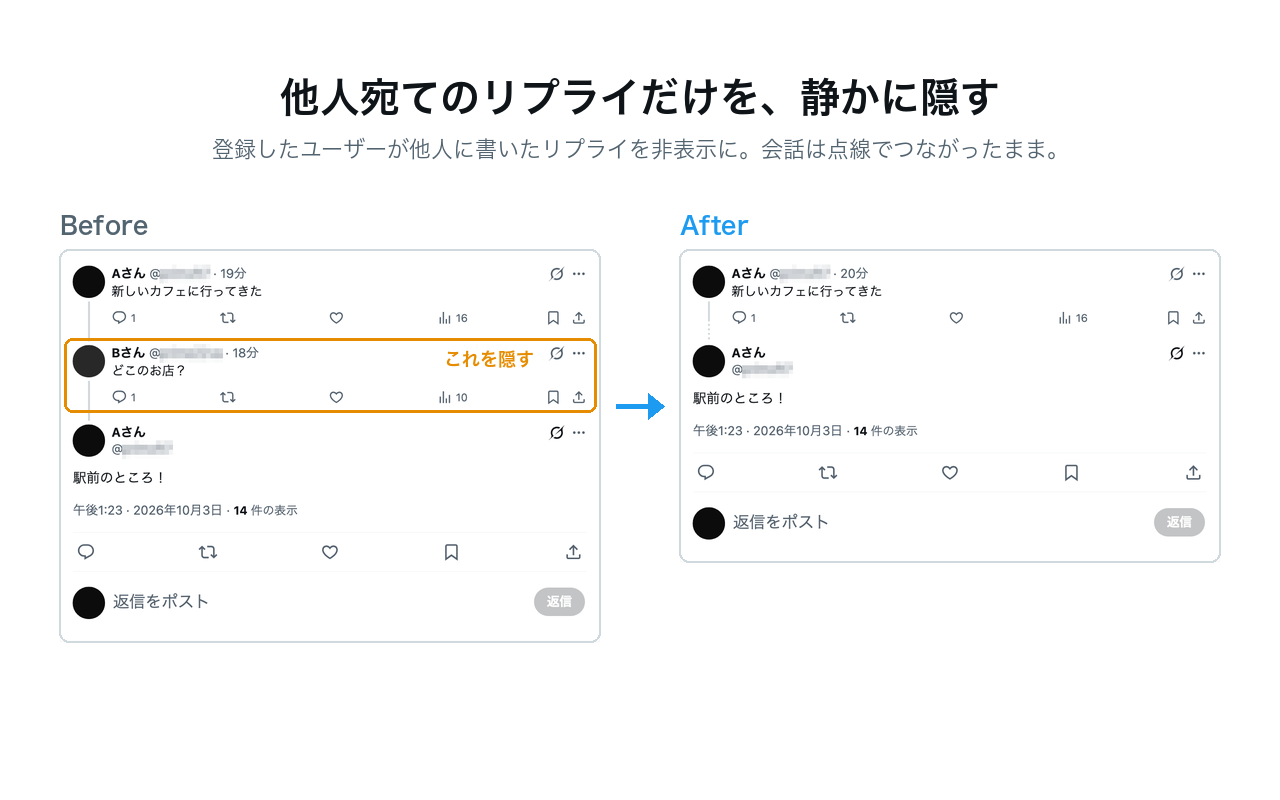
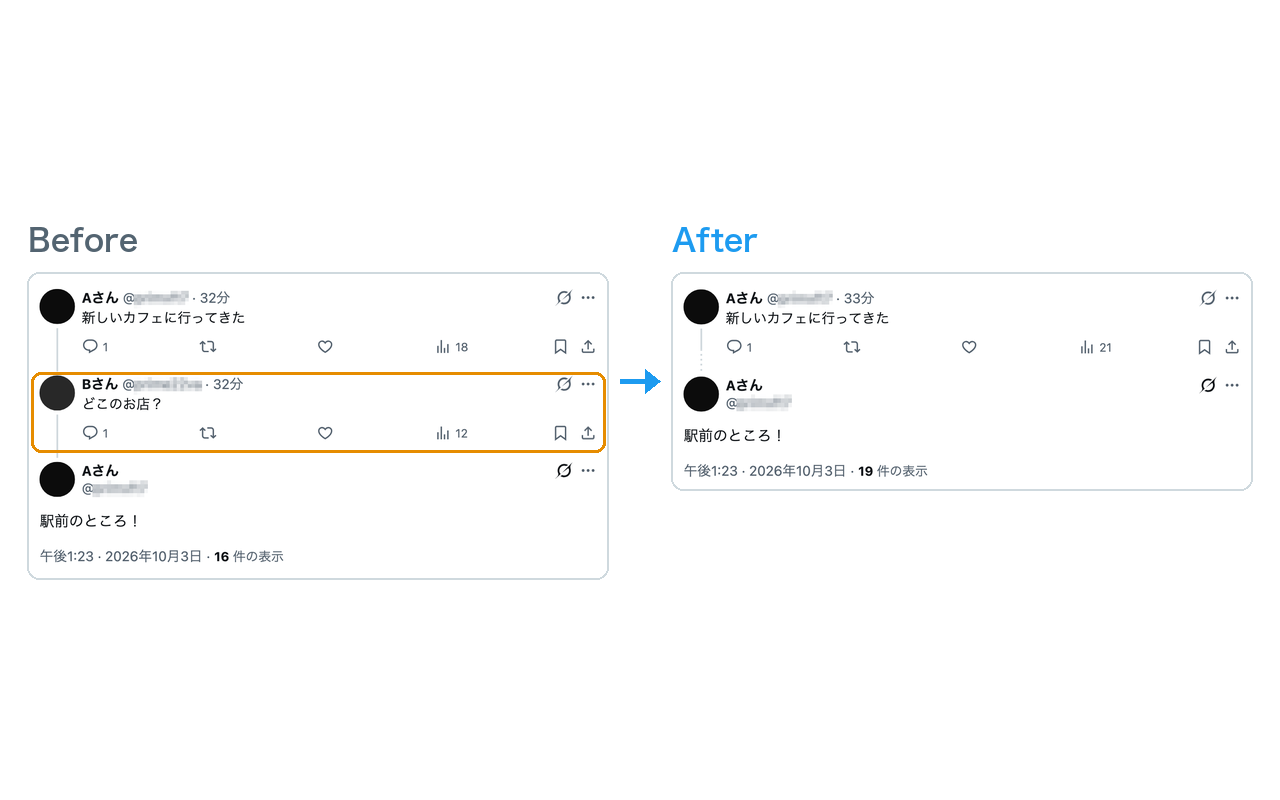
ストア用スクリーンショットを Retina の画面から作り直す
ブラウザ操作ツールの縮小された画像では文字がぼやけていたため、Retina の
解像度で撮った Before / After の画面から作り直した。見出しと説明文、
「これを隠す」のラベルはなくし、比較と隠れる返信を囲む枠だけにした。
compose.py は元画像のパスを引数で受け取り、切り出し範囲とモザイクの
位置を冒頭の定数にまとめた。

diff --git a/store/compose.py b/store/compose.py
@@ -1,29 +1,29 @@
-# ストア用スクリーンショット 1 を作る。
-# x.com の Before / After の画面（Retina のウィンドウキャプチャ）から会話の欄を切り出し、
-# @handle にモザイクをかけて 1280x800 に並べる。
+# ストア用スクリーンショットを作る。
+# x.com の会話部分を Retina で撮った Before / After の画像から、@handle にモザイクをかけて
+# 1280x800 に左右に並べる。
 # 使い方: python3 store/compose.py <before.png> <after.png> store/screenshot-1.png
 #
 # 座標はすべて元画像のピクセル位置。撮り直したら CROP / MOSAIC / HIDDEN_ROW を合わせ直す。
+# 最初の投稿が左右で同じ高さに来るように切り出す。
 import sys
 from PIL import Image, ImageDraw, ImageFont
 
-# 会話の欄（左右の境界線の内側から、返信欄の下の境界線まで）
 CROP = {
-    "before": (797, 75, 1877, 860),
-    "after": (797, 73, 1877, 698),
+    "before": (0, 0, 1306, 688),  # 右端の区切り線を落とす
+    "after": (4, 87, 1310, 575),  # 上の「← ポスト」の見出しと、下の区切り線を落とす
 }
 # @handle の @ より後ろ
 MOSAIC = {
-    "before": [(996, 104, 1098, 142), (996, 263, 1123, 301), (921, 456, 1023, 494)],
-    "after": [(996, 102, 1098, 140), (921, 296, 1023, 330)],
+    "before": [(238, 40, 362, 80), (238, 234, 392, 274), (145, 466, 270, 504)],
+    "after": [(242, 126, 366, 166), (149, 360, 274, 398)],
 }
 # Before で隠れる返信の行（上端と下端の y）
-HIDDEN_ROW = (250, 400)
+HIDDEN_ROW = (222, 402)
 
-PANEL_W = 540
 W, H = 1280, 800
+MARGIN, GAP = 28, 64  # 左右の余白と、パネルの間（矢印を置く）
+LABEL_SPACE = 52
 BOLD = "/System/Library/Fonts/ヒラギノ角ゴシック W6.ttc"
-REGULAR = "/System/Library/Fonts/ヒラギノ角ゴシック W3.ttc"
 
 
 def pixelate(img, box, block=8):
@@ -32,22 +32,23 @@ def pixelate(img, box, block=8):
     img.paste(small.resize(region.size, Image.NEAREST), box)
 
 
-def panel(path, key):
+def panel(path, key, scale):
     img = Image.open(path).convert("RGB")
     for box in MOSAIC[key]:
         pixelate(img, box)
     crop = img.crop(CROP[key])
-    scale = PANEL_W / crop.width
-    return crop.resize((PANEL_W, round(crop.height * scale)), Image.LANCZOS), scale, img.getpixel((CROP[key][0] + 10, CROP[key][3] - 10))
+    return crop.resize((round(crop.width * scale), round(crop.height * scale)), Image.LANCZOS)
 
 
-before, scale, bg = panel(sys.argv[1], "before")
-after, _, _ = panel(sys.argv[2], "after")
+panel_w = (W - MARGIN * 2 - GAP) // 2
+scale = panel_w / (CROP["before"][2] - CROP["before"][0])
+before = panel(sys.argv[1], "before", scale)
+after = panel(sys.argv[2], "after", scale)
 out = sys.argv[3]
 
-# X のテーマ（ライト / ダーク）に合わせて文字と枠線の色を変える
+bg = before.getpixel((before.width - 4, before.height - 4))
+# X のテーマ（ライト / ダーク）に合わせて色を変える
 light = sum(bg) / 3 > 128
-fg = (15, 20, 25) if light else (231, 233, 234)
 muted = (83, 100, 113) if light else (139, 152, 165)
 border = (207, 217, 222) if light else (47, 51, 54)
 amber = (230, 140, 0) if light else (255, 173, 31)
@@ -55,27 +56,25 @@ accent = (29, 155, 240)
 
 canvas = Image.new("RGB", (W, H), bg)
 d = ImageDraw.Draw(canvas)
-d.text((W / 2, 96), "他人宛てのリプライだけを、静かに隠す", font=ImageFont.truetype(BOLD, 40), fill=fg, anchor="mm")
-d.text((W / 2, 148), "登録したユーザーが他人に書いたリプライを非表示に。会話は点線でつながったまま。",
-       font=ImageFont.truetype(REGULAR, 22), fill=muted, anchor="mm")
 
-top = 250
-xl, xr = 60, W - 60 - PANEL_W
-label = ImageFont.truetype(BOLD, 24)
+# 見出しと高いほうのパネル（Before）を合わせた塊を、上下の中央に置く
+top = (H - (LABEL_SPACE + before.height)) // 2 + LABEL_SPACE
+xl = MARGIN
+xr = W - MARGIN - panel_w
+label = ImageFont.truetype(BOLD, 30)
 for x, img, text, color in ((xl, before, "Before", muted), (xr, after, "After", accent)):
-    d.text((x, top - 26), text, font=label, fill=color, anchor="lm")
+    d.text((x, top - 34), text, font=label, fill=color, anchor="lm")
     canvas.paste(img, (x, top))
-    d.rounded_rectangle((x - 1, top - 1, x + img.width, top + img.height), radius=10, outline=border, width=2)
+    d.rounded_rectangle((x - 1, top - 1, x + img.width, top + img.height), radius=12, outline=border, width=2)
 
 # Before で隠れる返信を枠で囲む
 y0 = top + round((HIDDEN_ROW[0] - CROP["before"][1]) * scale)
 y1 = top + round((HIDDEN_ROW[1] - CROP["before"][1]) * scale)
-d.rounded_rectangle((xl + 4, y0, xl + PANEL_W - 4, y1), radius=8, outline=amber, width=3)
-d.text((xl + PANEL_W - 66, y0 + 12), "これを隠す", font=ImageFont.truetype(BOLD, 18), fill=amber, anchor="rt")
+d.rounded_rectangle((xl + 3, y0, xl + panel_w - 3, y1), radius=10, outline=amber, width=3)
 
-# 矢印
+# 矢印（パネルの間、After の高さの中央）
 cx, cy = W / 2, top + after.height / 2
-d.line((cx - 24, cy, cx + 14, cy), fill=accent, width=5)
-d.polygon([(cx + 24, cy), (cx + 8, cy - 13), (cx + 8, cy + 13)], fill=accent)
+d.line((cx - 20, cy, cx + 10, cy), fill=accent, width=5)
+d.polygon([(cx + 20, cy), (cx + 5, cy - 12), (cx + 5, cy + 12)], fill=accent)
 
 canvas.save(out)

diff --git a/CHANGELOG.md b/CHANGELOG.md
@@ -10,6 +10,9 @@
 
 ## [Unreleased]
 
+### Changed
+- **ストア用スクリーンショットの撮り直し**: Retina の解像度で撮った画面から作り直し、文字をくっきりさせた。見出しと説明文はなくし、Before / After の比較と、隠れる返信を囲む枠だけにした。
+
 ## [1.1.4] - 2026-10-03
 
 ### Added
